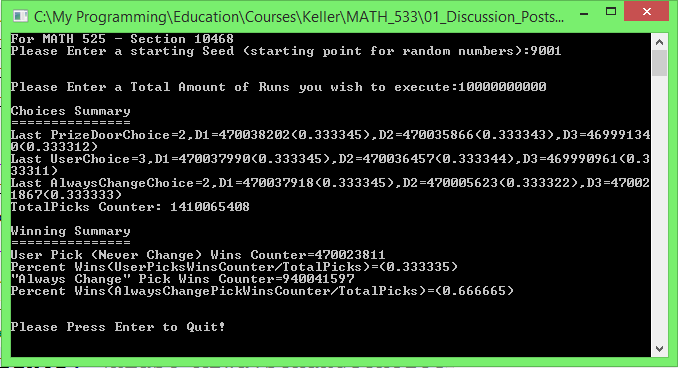
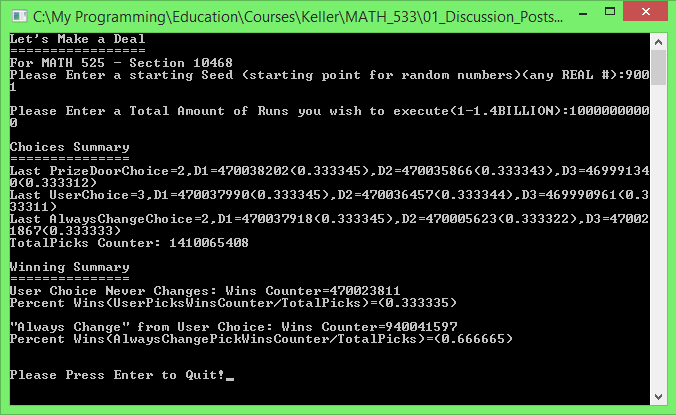
1min 20 seconds, added better UI

Changed region(s): [[0.0, 0.0, 1.0, 1.0]]

diff --git a/LetsMakeaDeal.c b/LetsMakeaDeal.c
@@ -6,7 +6,9 @@ int main(){
 	int i;
 	char SeedInput[20];
 	int StartingSeed=0;
-	printf("For MATH 525 - Section 10468\nPlease Enter a starting Seed (starting point for random numbers):");
+	printf("Let's Make a Deal");
+	printf("\n=================");
+	printf("\nFor MATH 525 - Section 10468\nPlease Enter a starting Seed (starting point for random numbers)(any REAL #):");
 	fgets(SeedInput, 20, stdin);
 	for(i=0;i<20;i++){
 		if(SeedInput[i]=='\n'){
@@ -53,7 +55,7 @@ int main(){
 	
 	char UserInput[20];
 	int TotalRuns=0;
-	printf("\n\nPlease Enter a Total Amount of Runs you wish to execute:");
+	printf("\nPlease Enter a Total Amount of Runs you wish to execute(1-1.4BILLION):");
 	fgets(UserInput, 20, stdin);
 	for(i=0;i<20;i++){
 		if(UserInput[i]=='\n'){
@@ -200,8 +202,9 @@ int main(){
 	
 	printf("\n\nWinning Summary");
 	printf("\n===============");
-	printf("\nUser Pick (Never Change) Wins Counter=%i \nPercent Wins(UserPicksWinsCounter/TotalPicks)=(%f)",NeverChangeWinCounter,(float)NeverChangeWinCounter/(float)TotalPicks);
-	printf("\n\"Always Change\" Pick Wins Counter=%i \nPercent Wins(AlwaysChangePickWinsCounter/TotalPicks)=(%f)",AlwaysChangeWinCounter,(float)AlwaysChangeWinCounter/(float)TotalPicks);
+	printf("\nUser Choice Never Changes: Wins Counter=%i \nPercent Wins(UserPicksWinsCounter/TotalPicks)=(%f)",NeverChangeWinCounter,(float)NeverChangeWinCounter/(float)TotalPicks);
+	
+	printf("\n\n\"Always Change\" from User Choice: Wins Counter=%i \nPercent Wins(AlwaysChangePickWinsCounter/TotalPicks)=(%f)",AlwaysChangeWinCounter,(float)AlwaysChangeWinCounter/(float)TotalPicks);
 	
 	printf("\n\n");
 	char PressEnter;
